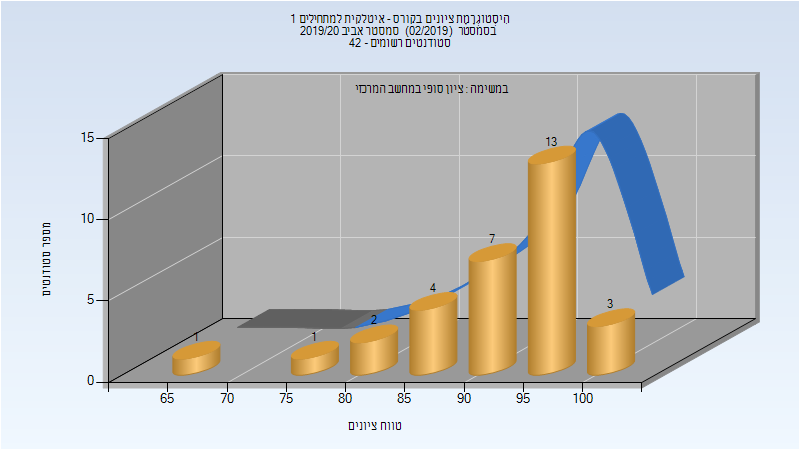
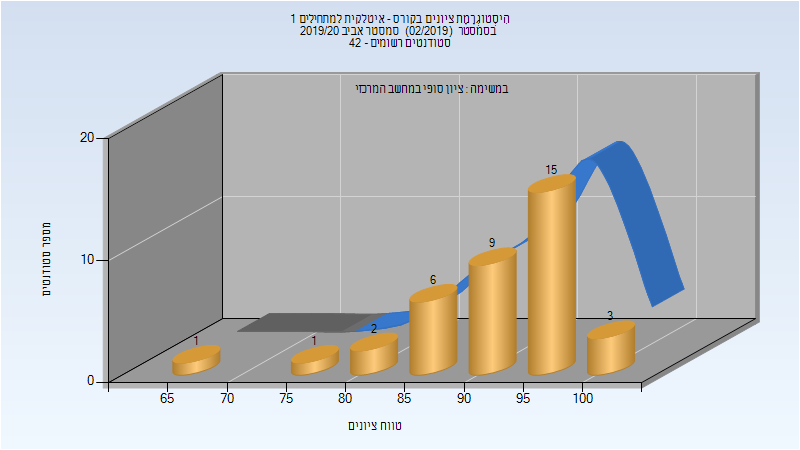
Deploy michael-maltsev/technion-histograms to github.com/michael-maltsev/technion-histograms.git:gh-pages

diff --git a/104223/index.html b/104223/index.html
@@ -2471,13 +2471,13 @@
 </thead>
 <tbody>
 <tr>
-<td>141</td>
-<td>119/22</td>
-<td>84</td>
-<td>27</td>
+<td>201</td>
+<td>175/26</td>
+<td>87</td>
+<td>15</td>
 <td>100</td>
-<td>69.291</td>
-<td>69</td>
+<td>70.025</td>
+<td>71</td>
 </tr>
 </tbody>
 </table>

diff --git a/324630/index.html b/324630/index.html
@@ -637,12 +637,12 @@
 </thead>
 <tbody>
 <tr>
-<td>31</td>
-<td>31/0</td>
+<td>37</td>
+<td>37/0</td>
 <td>100</td>
-<td>67</td>
+<td>65</td>
 <td>100</td>
-<td>92.581</td>
+<td>92.459</td>
 <td>94</td>
 </tr>
 </tbody>

diff --git a/104223/README.md b/104223/README.md
@@ -778,7 +778,7 @@
 
 | סטודנטים | עברו/נכשלו | אחוז עוברים | ציון מינימלי | ציון מקסימלי | ממוצע | חציון |
 | ---- | ---- | ---- | ---- | ---- | ---- | ---- |
-| 141 | 119/22 | 84 | 27 | 100 | 69.291 | 69 |
+| 201 | 175/26 | 87 | 15 | 100 | 70.025 | 71 |
 
 ## קיץ 2020
 

diff --git a/324630/README.md b/324630/README.md
@@ -198,5 +198,5 @@
 
 | סטודנטים | עברו/נכשלו | אחוז עוברים | ציון מינימלי | ציון מקסימלי | ממוצע | חציון |
 | ---- | ---- | ---- | ---- | ---- | ---- | ---- |
-| 31 | 31/0 | 100 | 67 | 100 | 92.581 | 94 |
+| 37 | 37/0 | 100 | 65 | 100 | 92.459 | 94 |
 
